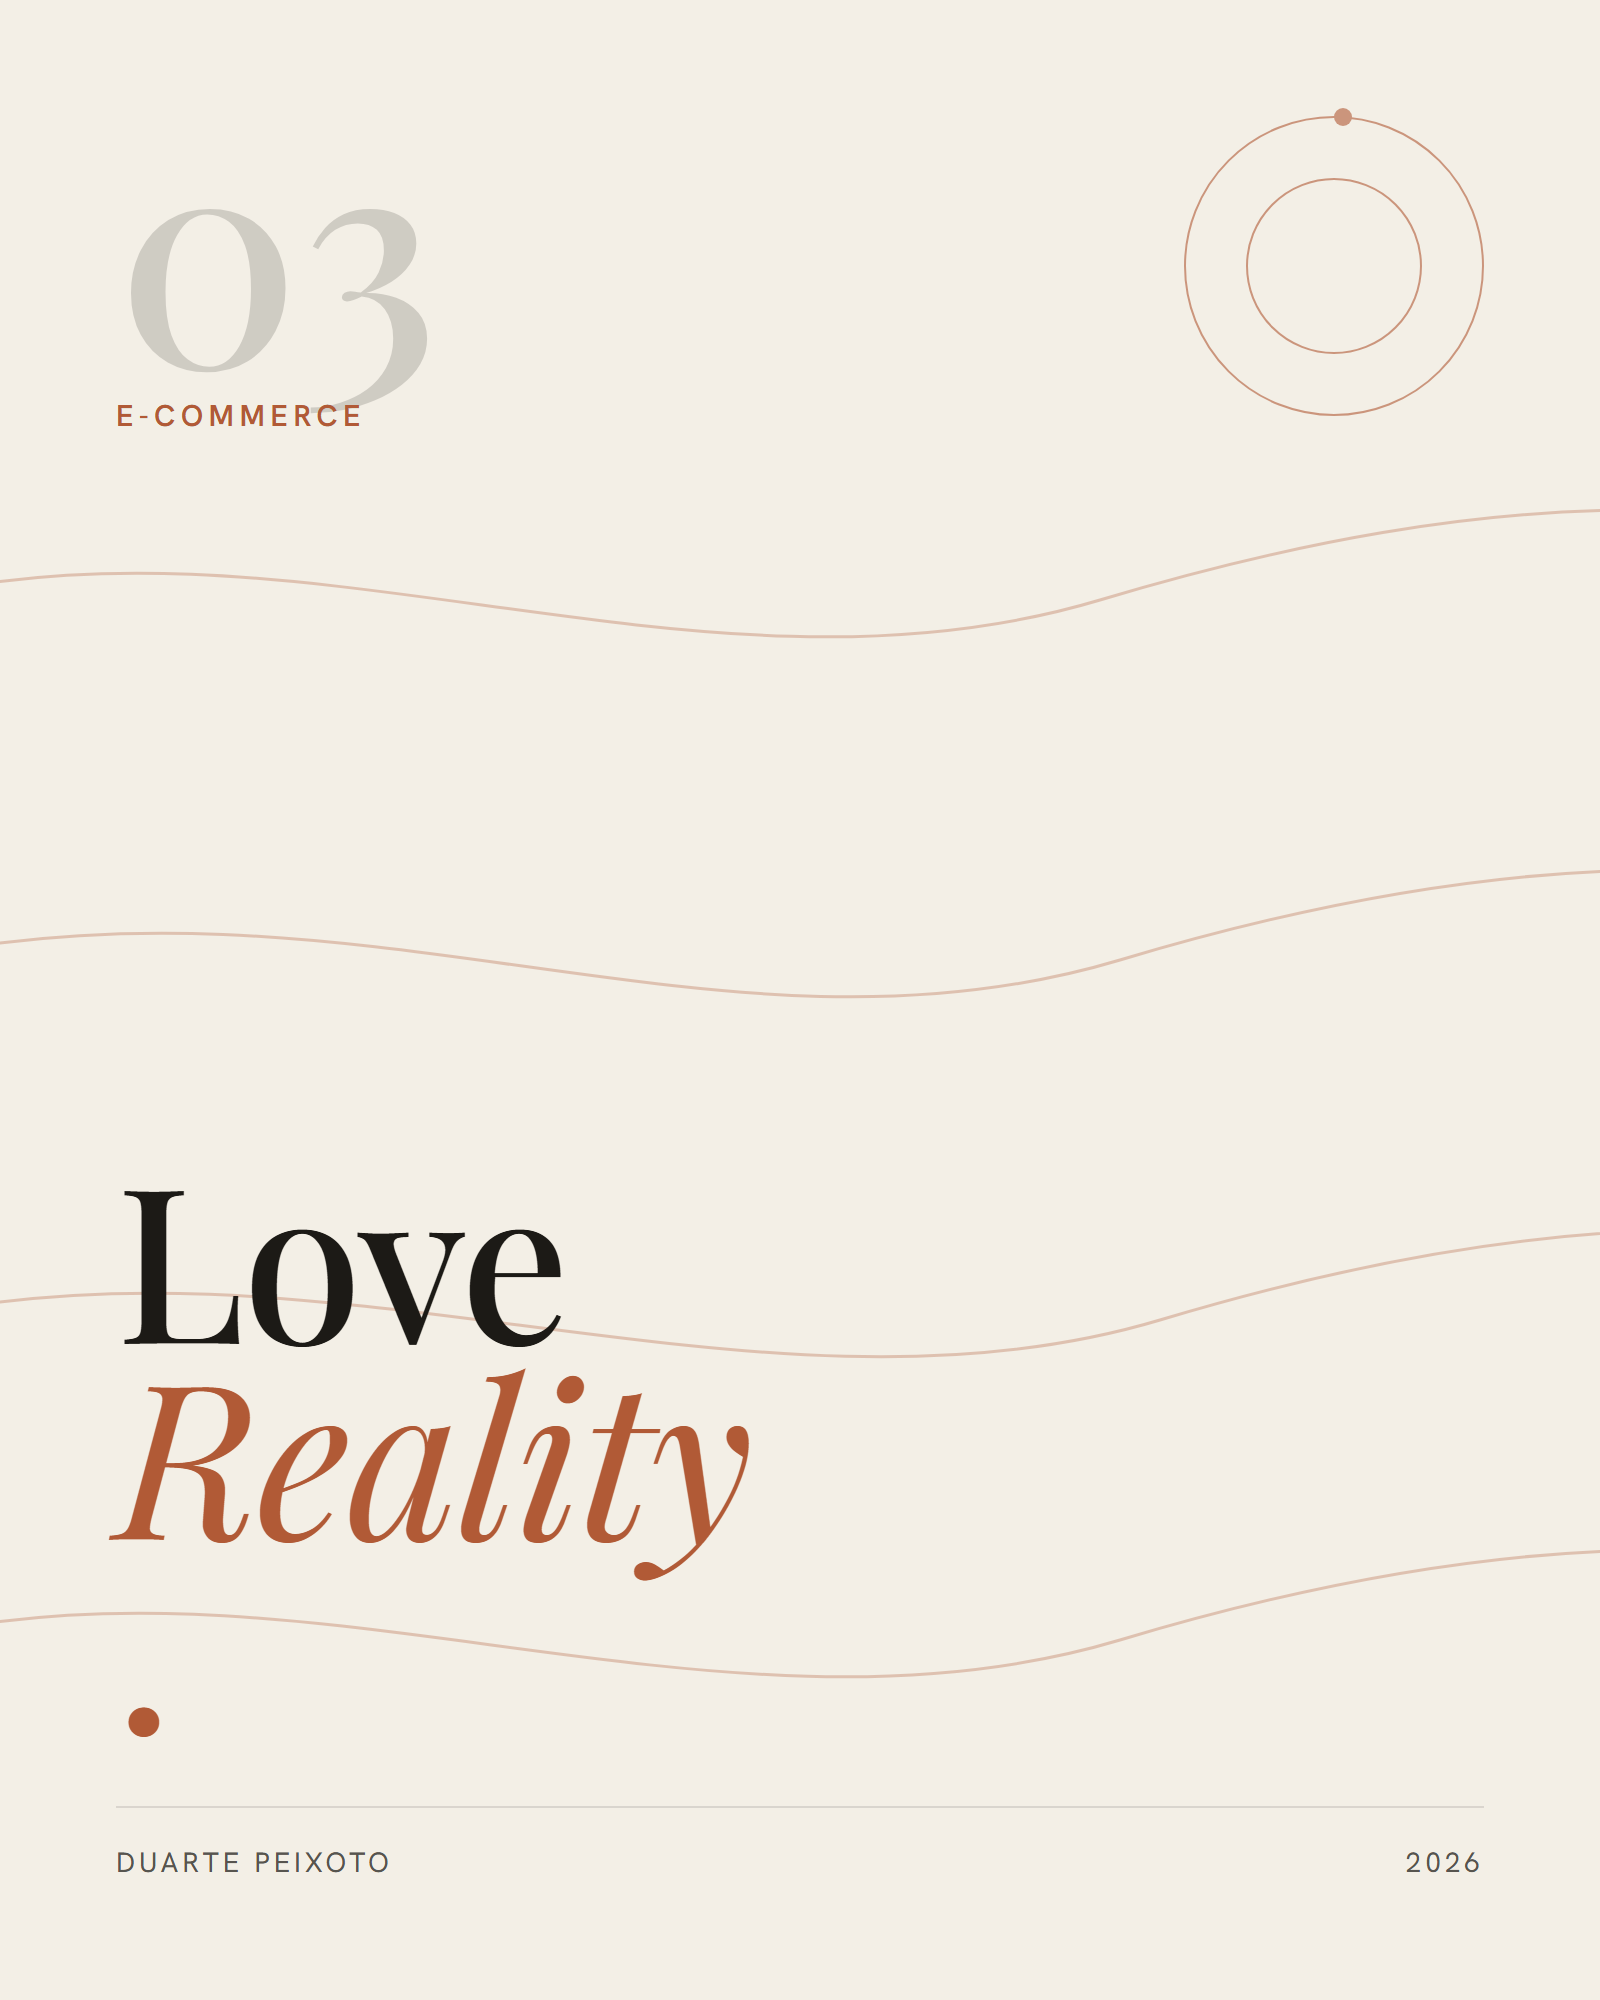
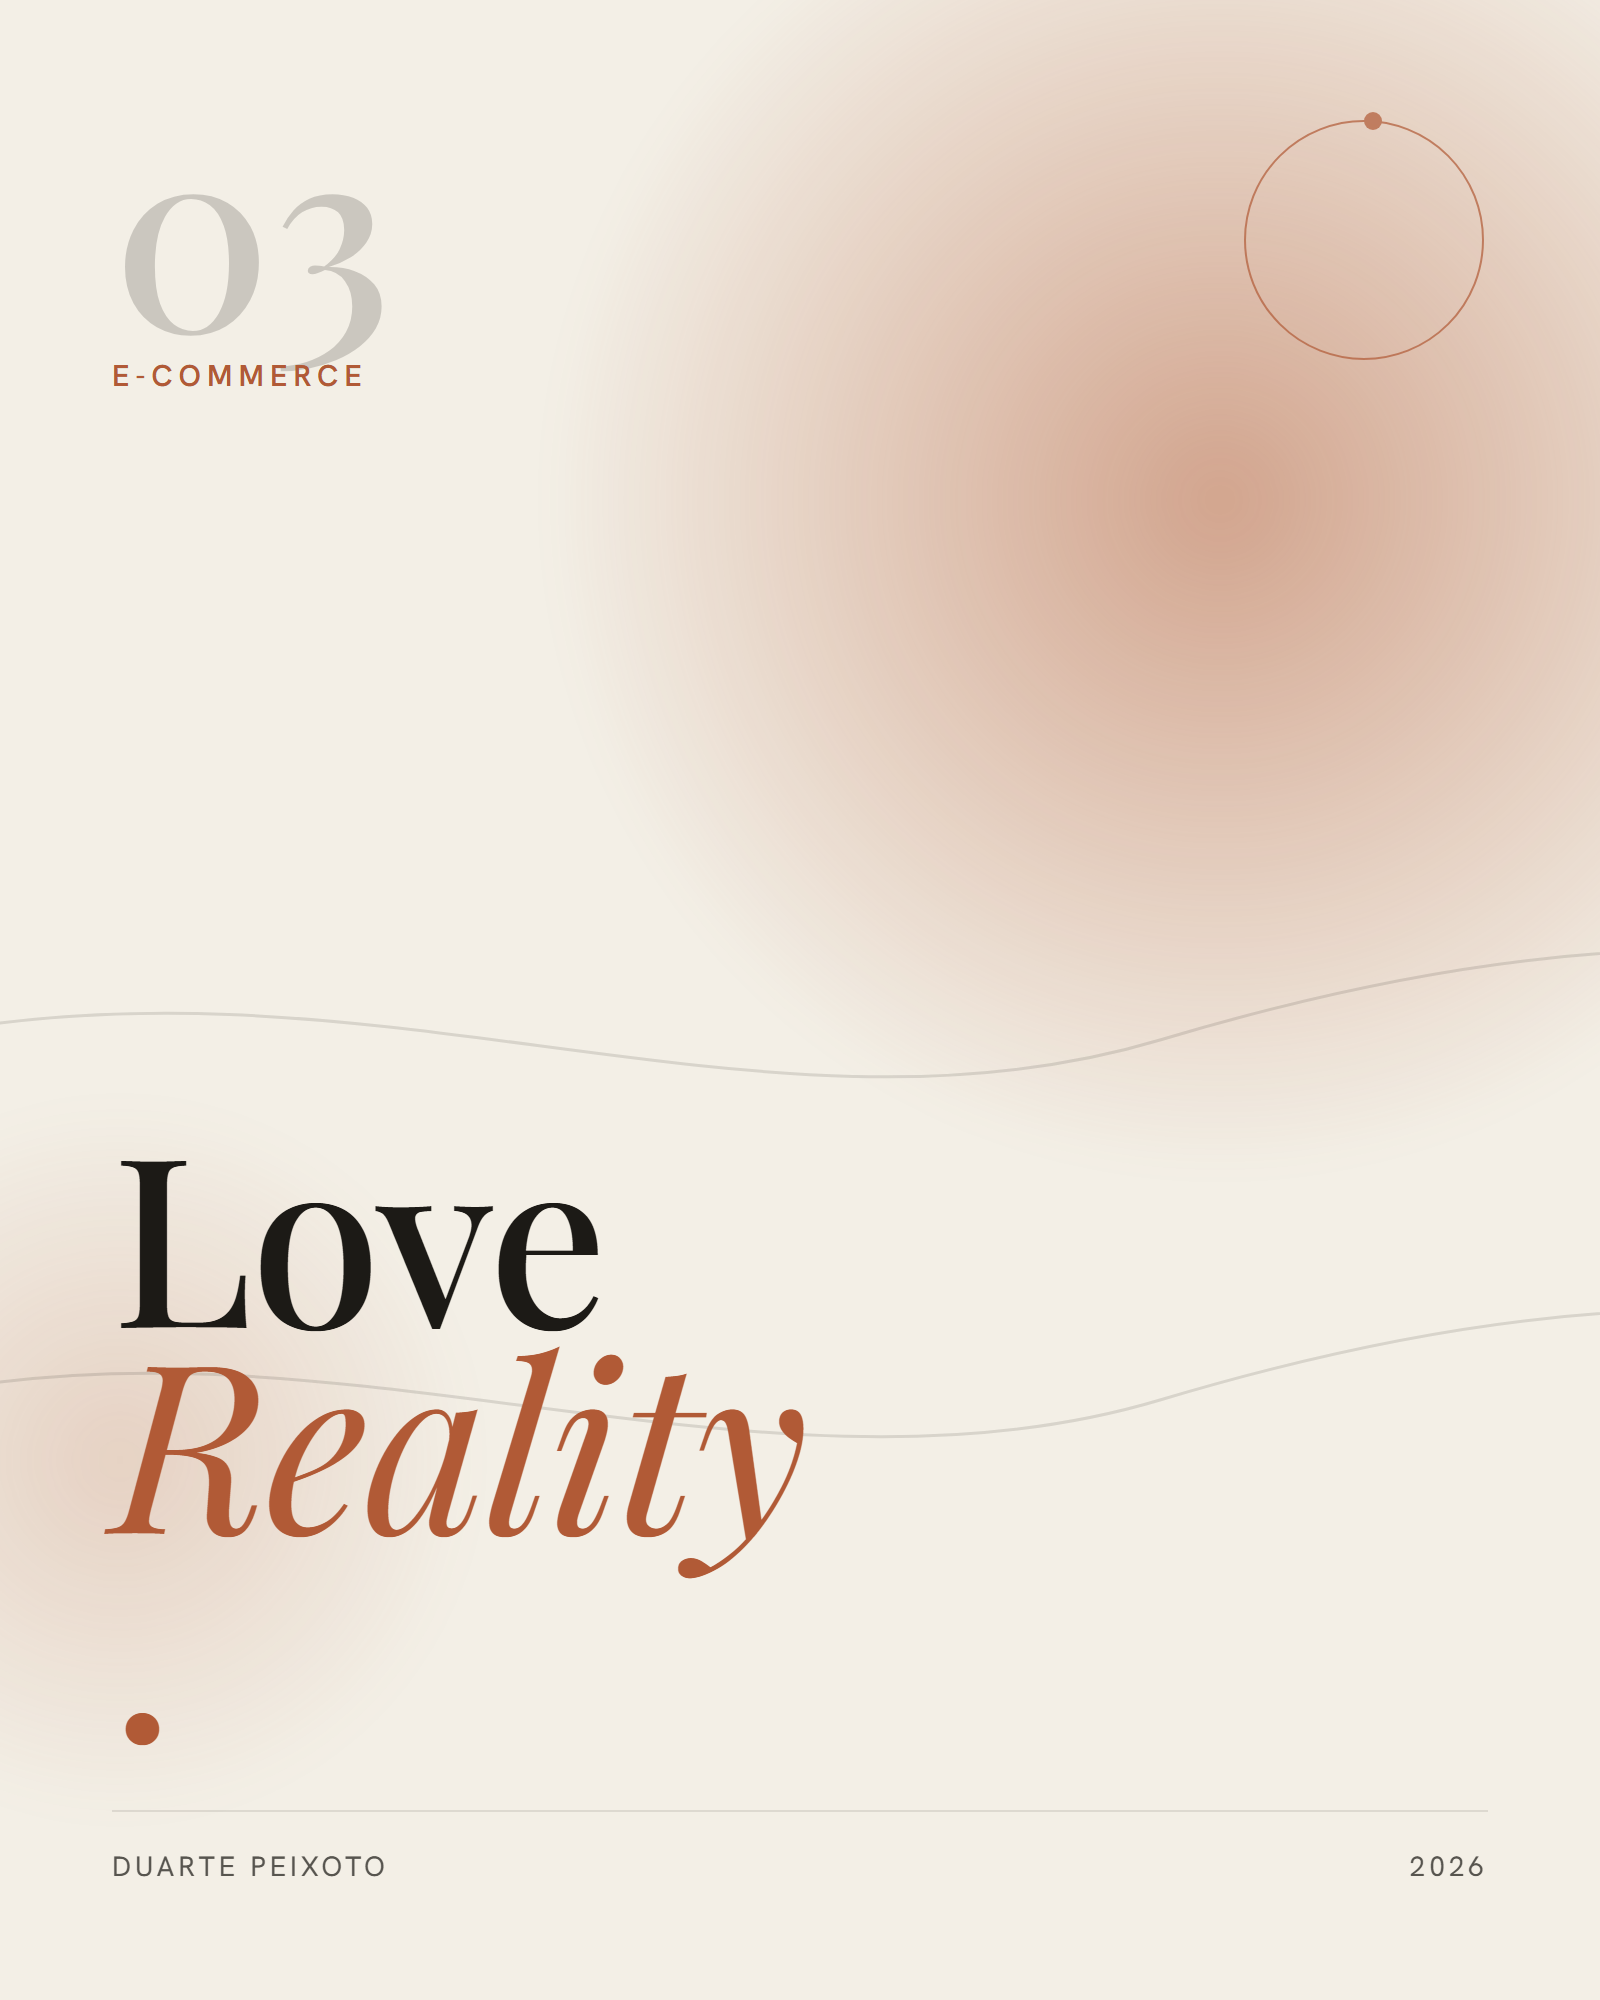
Fix overlay scroll (PC infinite / mobile sideways), SVG arrows, abstract covers, bio + contacts

diff --git a/app/page.jsx b/app/page.jsx
@@ -29,6 +29,13 @@ const PROJECTS = [
 const PF = "'Playfair Display', Georgia, serif";
 const HG = "'Hanken Grotesk', sans-serif";
 
+// SVG arrows so they never render as colour emoji on some phones (↗/→)
+const Arrow = ({ s = 13, dir = "ur" }) => (
+  <svg width={s} height={s} viewBox="0 0 24 24" fill="none" stroke="currentColor" strokeWidth="2.2" strokeLinecap="round" strokeLinejoin="round" aria-hidden="true" style={{ display: "block" }}>
+    {dir === "ur" ? (<><path d="M7 17 17 7" /><path d="M8 7h9v9" /></>) : (<><path d="M5 12h14" /><path d="m13 6 6 6-6 6" /></>)}
+  </svg>
+);
+
 const rgba = (hex, a) => {
   const h = hex.replace("#", "");
   const f = h.length === 3 ? h.split("").map((c) => c + c).join("") : h;
@@ -366,7 +373,7 @@ export default function Home() {
             <span className="lmask"><span className="lline lline-it">Peixoto</span></span>
           </h2>
           <div className="loader-bar"><i /></div>
-          <div className="loader-sub"><span>Designer · Developer · Braga</span></div>
+          <div className="loader-sub"><span>Developer · Estudante · Braga</span></div>
         </div>
       </div>
 
@@ -410,7 +417,7 @@ export default function Home() {
                 </div>
               </div>
               <div style={{ position: "relative", zIndex: 2, maxWidth: 1100 }}>
-                <div style={{ marginBottom: 18 }}><div data-intro="0" style={{ fontFamily: HG, fontSize: 13, letterSpacing: ".2em", textTransform: "uppercase", color: "#8a8377", fontWeight: 500 }}>Designer · Developer · Braga</div></div>
+                <div style={{ marginBottom: 18 }}><div data-intro="0" style={{ fontFamily: HG, fontSize: 13, letterSpacing: ".2em", textTransform: "uppercase", color: "#8a8377", fontWeight: 500 }}>Developer · Estudante · Braga</div></div>
                 <h1 style={{ fontFamily: PF, fontWeight: 500, lineHeight: ".9", letterSpacing: "-.01em", fontSize: "clamp(60px,11vw,200px)" }}>
                   <span style={{ display: "block" }}><span data-intro="1" style={{ display: "block" }}>Duarte</span></span>
                   <span style={{ display: "block" }}><span data-intro="2" style={{ display: "block", fontStyle: "italic", fontWeight: 400, color: "#b15a36", fontSize: "clamp(82px,15.5vw,300px)", lineHeight: ".82", marginTop: "-.02em" }}>Peixoto.</span></span>
@@ -436,9 +443,9 @@ export default function Home() {
                 <div style={{ flex: 1, maxWidth: 680 }}>
                   <div style={{ fontFamily: HG, fontSize: 12, letterSpacing: ".16em", textTransform: "uppercase", color: "#b15a36", marginBottom: 26, fontWeight: 500 }}>(02) — Sobre mim</div>
                   <p style={{ fontFamily: PF, fontWeight: 400, fontSize: "clamp(28px,3.4vw,56px)", lineHeight: 1.1, letterSpacing: "-.005em" }}>Crio onde forma, movimento e <span style={{ fontStyle: "italic", color: "#b15a36" }}>detalhe</span> se encontram.</p>
-                  <p style={{ marginTop: 30, maxWidth: 500, fontSize: 16, lineHeight: 1.65, color: "#56514a" }}>Developer e designer autodidata de Braga. Crio experiências digitais com personalidade — do conceito ao código, onde tipografia, movimento e interação trabalham juntos. Fora do código, exploro edição de foto e vídeo e modelação 3D a nível pessoal.</p>
+                  <p style={{ marginTop: 30, maxWidth: 520, fontSize: 16, lineHeight: 1.65, color: "#56514a" }}>Estudante e developer autodidata de Braga, apaixonado por programação — do front-end (React, Next.js) ao back-end (C# / .NET), bases de dados e integração de IA. Gosto de levar uma ideia do conceito ao deploy. Fora do ecrã faço downhill (MTB) — foi daí que nasceu o Fast Lane. À parte, exploro design, edição de foto e vídeo e modelação 3D, tudo a nível pessoal.</p>
                   <div style={{ marginTop: 34, display: "flex", flexWrap: "wrap", gap: 9, fontFamily: HG, fontSize: 12 }}>
-                    {["Web / React", "UI / UX", "Motion", "Edição foto · vídeo", "Modelação 3D"].map((t) => (
+                    {["React / Next.js", "C# / .NET", "UI / UX", "Foto · Vídeo", "3D"].map((t) => (
                       <span key={t} style={{ border: "1px solid rgba(28,26,22,.22)", borderRadius: 40, padding: "8px 16px", textTransform: "uppercase" }}>{t}</span>
                     ))}
                   </div>
@@ -471,7 +478,7 @@ export default function Home() {
                   <div style={{ flex: 1 }}>
                     <div style={{ fontFamily: HG, fontSize: 12, letterSpacing: ".1em", textTransform: "uppercase", color: p.catColor, marginBottom: 16, fontWeight: 500 }}>{p.cat}</div>
                     <h3 className="proj-title" style={{ fontFamily: PF, fontWeight: 500, fontSize: "clamp(44px,5.5vw,104px)", lineHeight: ".95" }}>{p.title}</h3>
-                    <div style={{ marginTop: 26, display: "inline-flex", alignItems: "center", gap: 12, fontFamily: HG, fontSize: 13, letterSpacing: ".04em" }}>Ver peça <span className="proj-arrow" style={{ display: "inline-flex", width: 34, height: 34, borderRadius: "50%", border: `1px solid ${p.arrowBorder}`, alignItems: "center", justifyContent: "center" }}>↗</span></div>
+                    <div style={{ marginTop: 26, display: "inline-flex", alignItems: "center", gap: 12, fontFamily: HG, fontSize: 13, letterSpacing: ".04em" }}>Ver peça <span className="proj-arrow" style={{ display: "inline-flex", width: 34, height: 34, borderRadius: "50%", border: `1px solid ${p.arrowBorder}`, alignItems: "center", justifyContent: "center" }}><Arrow s={13} dir="ur" /></span></div>
                   </div>
                 </div>
               </section>
@@ -485,7 +492,7 @@ export default function Home() {
                 <div style={{ fontFamily: HG, fontSize: 12, letterSpacing: ".16em", textTransform: "uppercase", color: "#d98a64", marginBottom: 28, fontWeight: 500 }}>(04) — Vamos trabalhar</div>
                 <h2 style={{ fontFamily: PF, fontWeight: 500, fontSize: "clamp(56px,10vw,200px)", lineHeight: ".9", letterSpacing: "-.01em" }}>Vamos criar<span style={{ fontStyle: "italic", color: "#b15a36" }}>.</span></h2>
                 <div style={{ marginTop: 46, display: "flex", alignItems: "center", gap: 34, flexWrap: "wrap" }}>
-                  <a href="mailto:[email redacted]" data-cursor="link" style={{ display: "inline-flex", alignItems: "center", gap: 14, background: "#f3efe6", color: "#1c1a16", fontFamily: HG, fontWeight: 500, fontSize: "clamp(15px,1.5vw,19px)", padding: "18px 30px", borderRadius: 50 }}>[email redacted] <span style={{ display: "inline-flex", width: 26, height: 26, borderRadius: "50%", background: "#b15a36", color: "#f3efe6", alignItems: "center", justifyContent: "center" }}>↗</span></a>
+                  <a href="mailto:[email redacted]" data-cursor="link" style={{ display: "inline-flex", alignItems: "center", gap: 14, background: "#f3efe6", color: "#1c1a16", fontFamily: HG, fontWeight: 500, fontSize: "clamp(15px,1.5vw,19px)", padding: "18px 30px", borderRadius: 50 }}>[email redacted] <span style={{ display: "inline-flex", width: 26, height: 26, borderRadius: "50%", background: "#b15a36", color: "#f3efe6", alignItems: "center", justifyContent: "center" }}><Arrow s={12} dir="ur" /></span></a>
                   <div style={{ display: "flex", gap: 22, fontFamily: HG, fontSize: 14 }}>
                     <a href="https://github.com/Duartepxto" target="_blank" rel="noopener noreferrer" data-cursor="link" className="social-link">GitHub ↗</a>
                     <a href="https://www.linkedin.com/in/duarte-peixoto-b96189397" target="_blank" rel="noopener noreferrer" data-cursor="link" className="social-link">LinkedIn ↗</a>
@@ -555,7 +562,7 @@ export default function Home() {
                 const L = GLAYOUT[i % GLAYOUT.length];
                 const portrait = (g.o || "l") === "p";
                 return (
-                  <div key={i} className="gitem" style={{ flex: "0 0 auto", transform: `translateY(${L.y}vh)`, display: "flex", flexDirection: "column", gap: 14 }}>
+                  <div key={i} className={`gitem ${portrait ? "gitem--p" : "gitem--l"}`} style={{ flex: "0 0 auto", transform: `translateY(${L.y}vh)`, display: "flex", flexDirection: "column", gap: 14 }}>
                     <span className="gcap" style={{ fontFamily: HG, fontSize: 11, letterSpacing: ".18em", textTransform: "uppercase", color: "#8a8377", fontWeight: 500 }}>{g.label || `${cur.title} · ${g.code}`}</span>
                     <figure className="gshot" style={{ margin: 0, height: `${L.h}vh`, aspectRatio: portrait ? "9 / 19.5" : "16 / 10", borderRadius: 6, overflow: "hidden", border: "1px solid rgba(28,26,22,.1)", background: "#e7e0d2", display: "flex", alignItems: "center", justifyContent: "center" }}>
                       {g.src ? (
@@ -589,7 +596,7 @@ export default function Home() {
             <WaveLines color="#b15a36" opacity={0.2} offset={360} />
             <div style={{ fontFamily: HG, fontSize: 12, letterSpacing: ".14em", textTransform: "uppercase", color: "#8a8377", marginBottom: 18 }}>Próxima peça</div>
             <div style={{ fontFamily: PF, fontWeight: 500, fontSize: "clamp(48px,8vw,140px)", lineHeight: ".95" }}>{nextTitle}</div>
-            <div style={{ marginTop: 28, display: "inline-flex", alignItems: "center", gap: 14, fontFamily: HG, fontSize: 14 }}>Ver peça <span style={{ display: "inline-flex", width: 40, height: 40, borderRadius: "50%", background: "#1c1a16", color: "#f3efe6", alignItems: "center", justifyContent: "center" }}>→</span></div>
+            <div style={{ marginTop: 28, display: "inline-flex", alignItems: "center", gap: 14, fontFamily: HG, fontSize: 14 }}>Ver peça <span style={{ display: "inline-flex", width: 40, height: 40, borderRadius: "50%", background: "#1c1a16", color: "#f3efe6", alignItems: "center", justifyContent: "center" }}><Arrow s={16} dir="r" /></span></div>
           </section>
         </div>
       )}

diff --git a/app/globals.css b/app/globals.css
@@ -91,6 +91,7 @@ a {
   flex-shrink: 0;
   position: relative;
   isolation: isolate;
+  overflow: hidden; /* clip the background lines so they don't extend the scroll width */
 }
 @keyframes overlayIn {
   from { opacity: 0; }
@@ -325,17 +326,19 @@ a {
   }
   #projpanel > section.dpanel + section.dpanel { border-top: 1px solid rgba(28, 26, 22, 0.08); }
 
-  /* gallery -> horizontal swipe strip inside the vertical overlay */
+  /* gallery -> clean vertical stack inside the vertical overlay (no sideways scroll) */
   .gallery {
+    flex-direction: column !important;
     height: auto !important;
-    overflow-x: auto;
-    overflow-y: hidden;
+    overflow: hidden !important;
     justify-content: flex-start !important;
     align-items: center !important;
-    padding: 5vh 8vw !important;
-    gap: 4vw !important;
-    -webkit-overflow-scrolling: touch;
+    padding: 6vh 7vw !important;
+    gap: 4.5vh !important;
   }
-  .gallery .gitem { transform: none !important; }
-  .gallery .gshot { height: 42vh !important; }
+  .gallery .gitem { transform: none !important; width: auto !important; max-width: 100%; align-items: center; }
+  .gallery .gitem--l { width: 100% !important; }
+  .gallery .gitem--l .gshot { width: 100% !important; height: auto !important; }
+  .gallery .gitem--p .gshot { height: 58vh !important; width: auto !important; max-width: 100%; }
+  .gallery .gcap { align-self: flex-start; }
 }